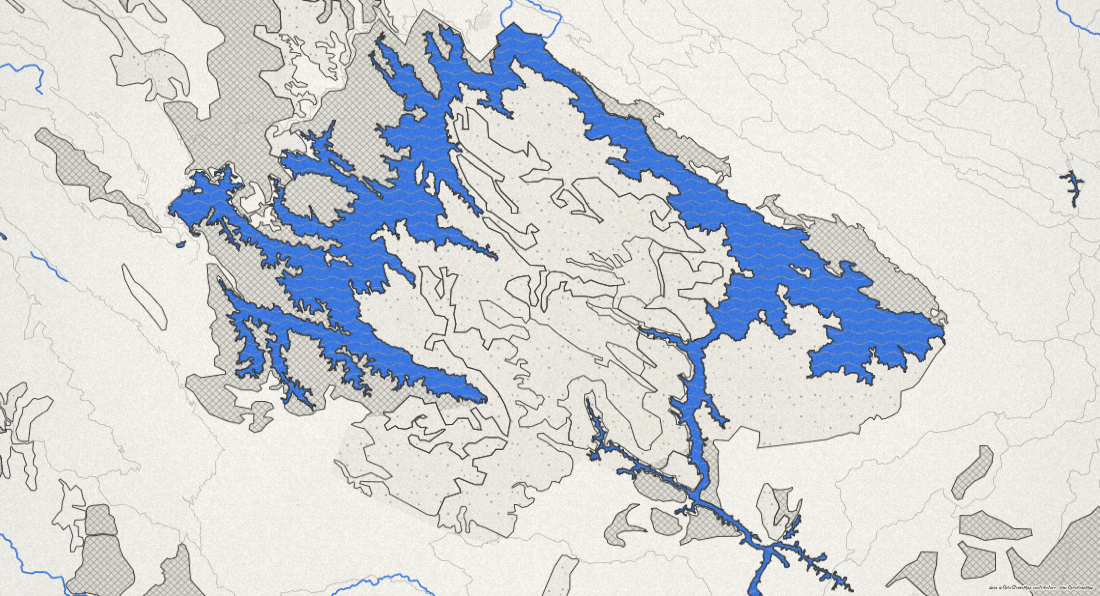
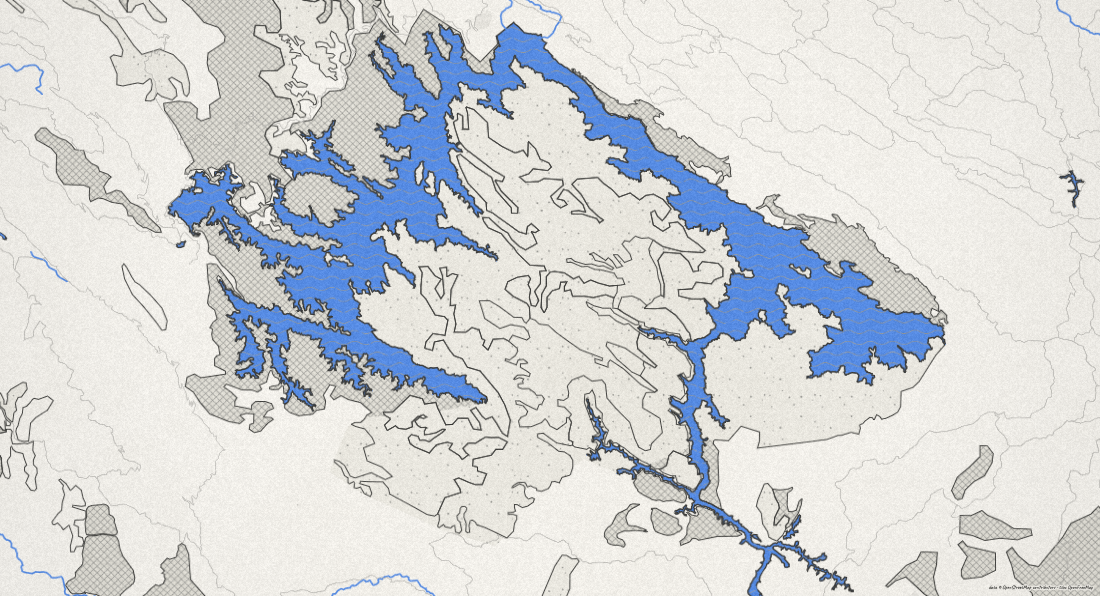
fetch-level: match current KSEB PDF name, pick newest upload month
The SDMA landing page renamed its daily PDF (KSEB-SITE-NN.pdf -> KSEB-Site.pdf),
so the old KSEB-SITE- regex skipped it and matched a stale 2025/11 link, pushing
year-old data into the README. Match any KSEB*.pdf and select the link under the
most recent /uploads/YYYY/MM/ path.

diff --git a/README.md b/README.md
@@ -1,10 +1,10 @@
 <p align="center">
-  <!--POSTER:START--><img src="out/styles/auburn.png" alt="Idukki reservoir, water level shown by colour" width="100%"><!--POSTER:END--><br>
+  <!--POSTER:START--><img src="out/styles/blueprint.png" alt="Idukki reservoir, water level shown by colour" width="100%"><!--POSTER:END--><br>
   <img src="out/level-bar.svg" alt="Water level colour scale, low to full" width="100%">
 </p>
 
 <!--LEVEL:START-->
-Location: [Idukki reservoir](https://en.wikipedia.org/wiki/Idukki_Dam) · Water level: `2384.54 ft` / `2403 ft` (78.89% capacity) · Last updated: 05/11/2025 11:00 AM
+Location: [Idukki reservoir](https://en.wikipedia.org/wiki/Idukki_Dam) · Water level: `2366.64 ft` / `2403 ft` (60.74% capacity) · Last updated: 01/10/2026 11:00 AM
 <!--LEVEL:END-->
 
 ---
@@ -13,5 +13,5 @@ Geographic data snapshot of one of my favourite places, [Idukki Reservoir](https
 The image above shows the current water level in the reservoir.
 
 - **Water level:** [Kerala SDMA · Daily Dam Water Levels](https://sdma.kerala.gov.in/dam-water-level/) (KSEB daily report), extracted daily. The water's colour is keyed to the official alert levels: light → blue → orange → red. The scale under the map marks today's level from empty to full; the marker shows the water's height, and the % is its capacity (volume).
-- **Weather:** <!--WEATHER:START-->Overcast, 20.6°C<!--WEATHER:END--> at the reservoir, from [Open-Meteo](https://open-meteo.com).
+- **Weather:** <!--WEATHER:START-->Overcast, 20.3°C<!--WEATHER:END--> at the reservoir, from [Open-Meteo](https://open-meteo.com).
 - **Built with [map-paper](https://github.com/deepakvettickal/map-paper).** Map data © OpenStreetMap contributors; tiles by OpenFreeMap.
